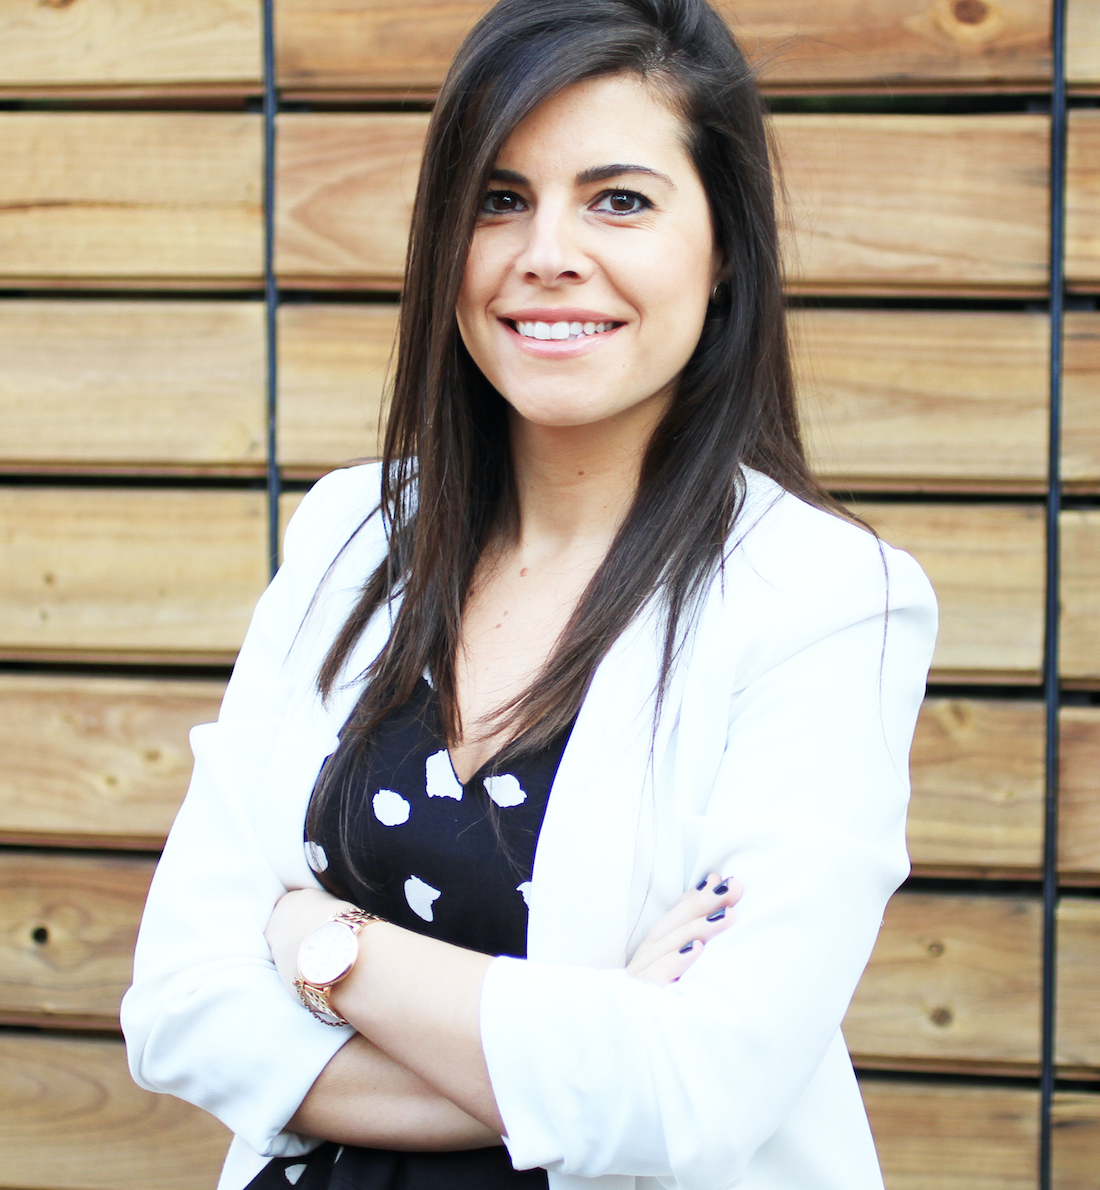
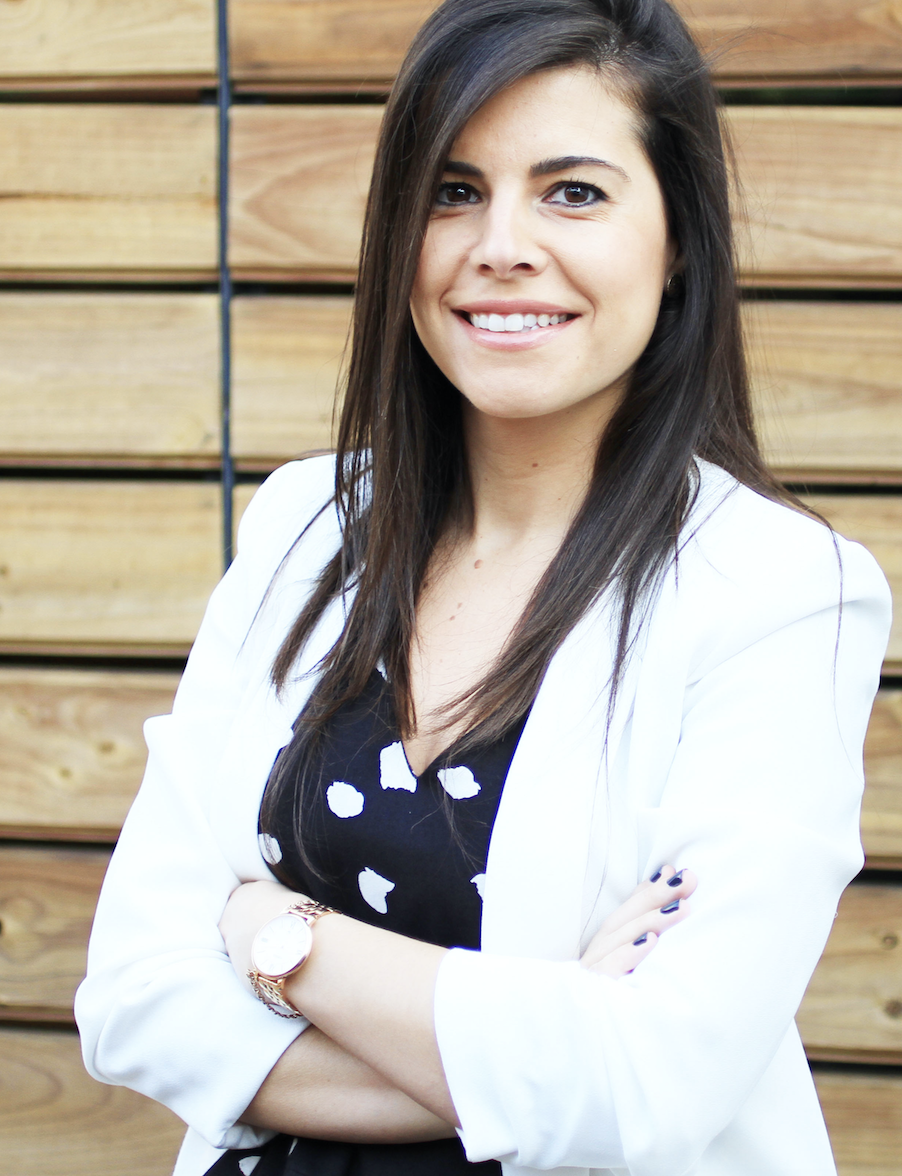
padding issues solved

diff --git a/css/styles.css b/css/styles.css
@@ -87,7 +87,7 @@ header {
     top: 0;
     right: 0;
     height: 100vh;
-    width: 550px;
+    width: -webkit-fill-available;
     background: url(../img/mypicture.png) no-repeat top right;
     background-size: contain;
     background-attachment: fixed;
